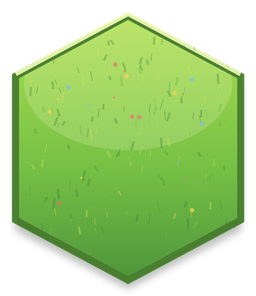
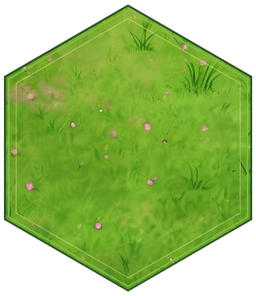
Apply boulder wall tile art

diff --git a/styles.css b/styles.css
@@ -4813,12 +4813,12 @@ body {
 .hex::after {
   inset: 0;
   clip-path: none;
-  background: url("assets/casual/hex-grass.png") center / 100% 100% no-repeat;
+  background: url("assets/casual/hex-grass.png?v=20260623-boulder-wall") center / 100% 100% no-repeat;
   box-shadow: none;
 }
 
 .hex.wall::after {
-  background: url("assets/casual/hex-stone.png") center / 100% 100% no-repeat;
+  background: url("assets/casual/hex-stone.png?v=20260623-boulder-wall") center / 100% 100% no-repeat;
   box-shadow: none;
 }
 
@@ -4836,19 +4836,19 @@ body {
 .hex.trap-block::after {
   background:
     radial-gradient(circle at 50% 52%, rgba(96, 169, 255, 0.8) 0 16%, transparent 18%),
-    url("assets/casual/hex-stone.png") center / 100% 100% no-repeat;
+    url("assets/casual/hex-stone.png?v=20260623-boulder-wall") center / 100% 100% no-repeat;
 }
 
 .hex.trap-rune::after {
   background:
     radial-gradient(circle at 50% 52%, rgba(164, 130, 255, 0.82) 0 15%, rgba(110, 218, 212, 0.34) 16% 34%, transparent 36%),
-    url("assets/casual/hex-grass.png") center / 100% 100% no-repeat;
+    url("assets/casual/hex-grass.png?v=20260623-boulder-wall") center / 100% 100% no-repeat;
 }
 
 .hex.in-range::after {
   background:
     radial-gradient(circle at 50% 52%, rgba(255, 248, 144, 0.42) 0 46%, transparent 48%),
-    url("assets/casual/hex-grass.png") center / 100% 100% no-repeat;
+    url("assets/casual/hex-grass.png?v=20260623-boulder-wall") center / 100% 100% no-repeat;
   filter: brightness(1.12) saturate(1.12);
 }
 

diff --git a/index.html b/index.html
@@ -13,15 +13,15 @@
     <link rel="manifest" href="manifest.webmanifest" />
     <link rel="apple-touch-icon" href="assets/card-normal-v2.png" />
     <link rel="preload" as="image" href="assets/casual/bg-meadow.png" />
-    <link rel="preload" as="image" href="assets/casual/hex-grass.png" />
-    <link rel="preload" as="image" href="assets/casual/hex-stone.png" />
+    <link rel="preload" as="image" href="assets/casual/hex-grass.png?v=20260623-boulder-wall" />
+    <link rel="preload" as="image" href="assets/casual/hex-stone.png?v=20260623-boulder-wall" />
     <link rel="preload" as="image" href="assets/casual/hex-earth.png" />
     <link rel="preload" as="image" href="assets/casual/hud-panel.png" />
     <link rel="preload" as="image" href="assets/casual/button-pill.png" />
     <link rel="preload" as="image" href="assets/casual/hud-token.png" />
     <link rel="preload" as="image" href="assets/casting/archer/archer-01-2d-illustration-cutout.png" />
     <link rel="preload" as="image" href="assets/characters/archer-token/archer-token-v2-front.png" />
-    <link rel="stylesheet" href="styles.css?v=20260623-archer-attack-pass" />
+    <link rel="stylesheet" href="styles.css?v=20260623-boulder-wall" />
   </head>
   <body>
     <main class="app-shell">
@@ -132,6 +132,6 @@
       </section>
     </div>
 
-    <script src="app.js?v=20260623-archer-move-facing-pass"></script>
+    <script src="app.js?v=20260623-boulder-wall"></script>
   </body>
 </html>

diff --git a/app.js b/app.js
@@ -1099,8 +1099,8 @@ selectedCharacterId = initialSelectedCharacterId();
 
 const coreVisualAssetUrls = [
   "assets/casual/bg-meadow.png",
-  "assets/casual/hex-grass.png",
-  "assets/casual/hex-stone.png",
+  "assets/casual/hex-grass.png?v=20260623-boulder-wall",
+  "assets/casual/hex-stone.png?v=20260623-boulder-wall",
   "assets/casual/hex-earth.png",
   "assets/casual/hud-panel.png",
   "assets/casual/button-pill.png",